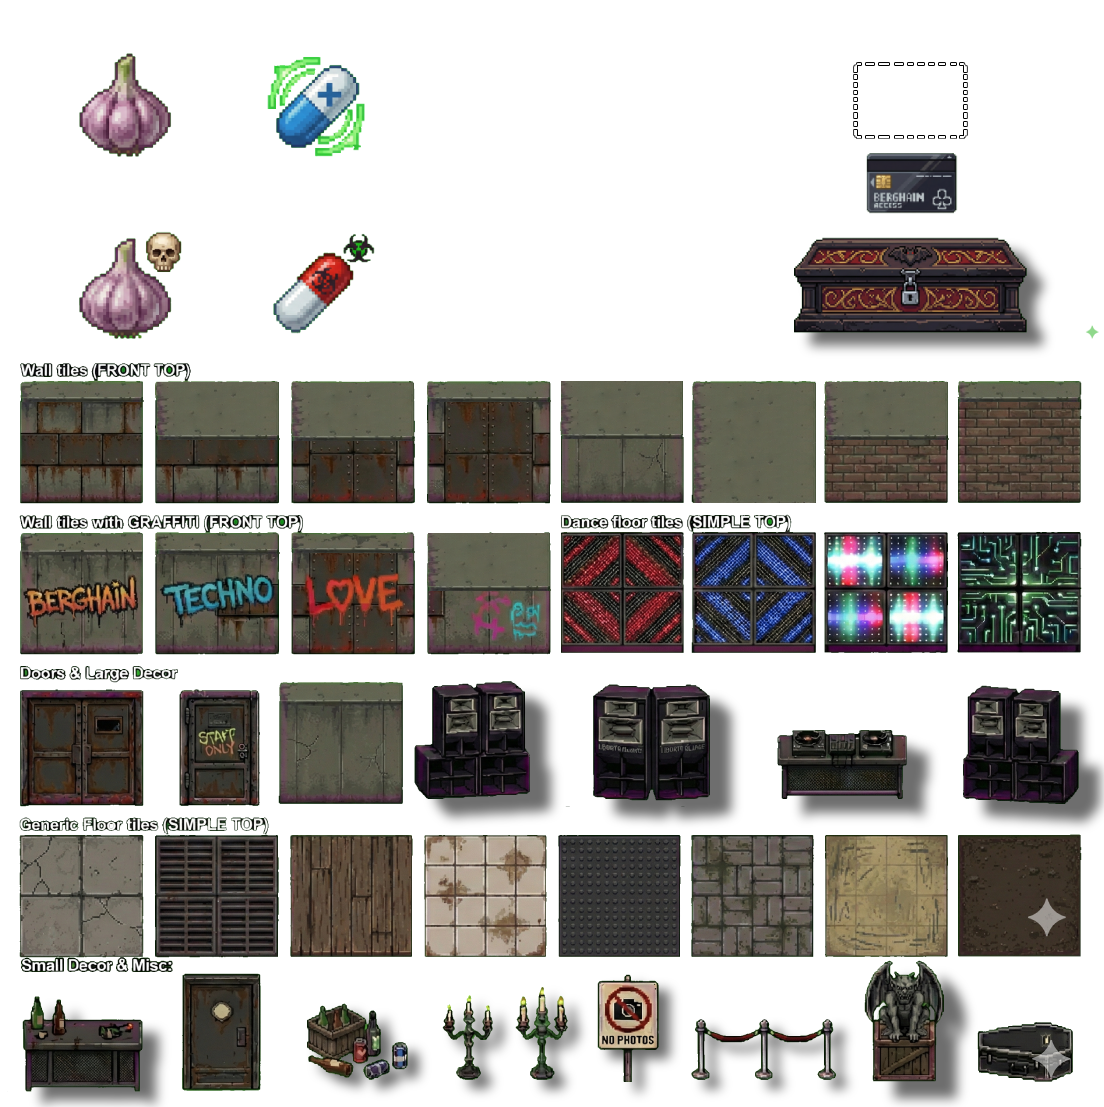
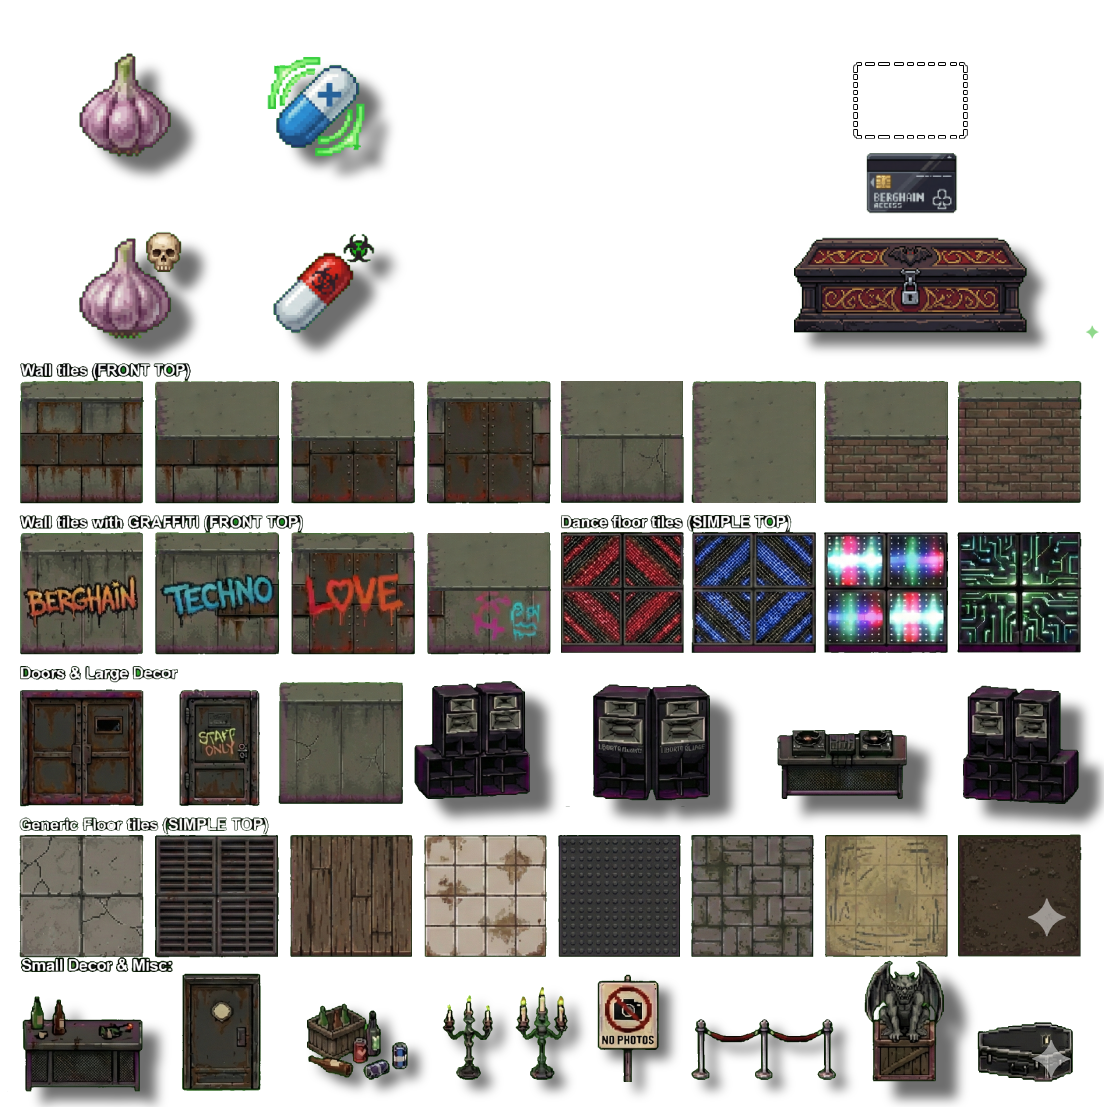
ADD: README.md

diff --git a/core/src/de/tum/cit/fop/maze/UI/SettingsScreen.java b/core/src/de/tum/cit/fop/maze/UI/SettingsScreen.java
@@ -202,7 +202,7 @@ public class SettingsScreen {
         });
         table.add(resolutionWidth).width(400).row();
 
-        TextButton fsButton = new TextButton("Mode: Windowed", skin);
+        TextButton fsButton = new TextButton("Mode: Windowed", skin, "vampire-style");
 
         fsButton.addListener(new ChangeListener() {
             @Override

diff --git a/README.md b/README.md
@@ -1,0 +1,93 @@
+# Maze Runner
+
+![Project Logo or Screenshot](assets/mainMenu_background.png)
+
+"Vampire in Berghain" is a top-down maze-runner game where you play as a recently awakened vampire. Trapped in Berghain, a club in Berlin, you must navigate through dangerous mazes, spill the blood of mortals, and find the portal that leads back to your home in Transylvania.
+
+## Quick Start (Getting Started)
+
+Follow these instructions to run the project locally on your machine.
+
+### Windows
+Open a terminal (Command Prompt or PowerShell) in the project root and run:
+```bash
+gradlew.bat desktop:run
+```
+
+### Mac
+Open a terminal in the project root and run:
+```bash
+./gradlew desktop:run
+```
+*Note: The project is configured to use the `-XstartOnFirstThread` JVM argument, which is required for LWJGL3 applications on macOS.*
+
+### Linux
+Open a terminal in the project root and run:
+```bash
+./gradlew desktop:run
+```
+
+## Prerequisites
+
+To build and run this project, you need:
+- **Java Development Kit (JDK) 17 or higher**: Ensure your `JAVA_HOME` environment variable is set correctly.
+- **Gradle**: The project uses the Gradle wrapper, so no manual installation is required.
+
+## Project Structure
+
+This project is built using **Java 17** and the **libGDX** framework, organized into a multi-module Gradle setup:
+
+- **`core`**: Contains the main game logic, entity management, and shared code. It utilizes **gdx-vfx** for post-processing and **FreeType** for font rendering.
+- **`desktop`**: The desktop launcher module using **LWJGL3**. It handles window creation and uses **gdx-nativefilechooser** for system file dialogs.
+- **`assets`**: Stores all game resources, including textures, sound effects, music, and map files.
+
+## How to Build/Export
+
+To create a standalone, runnable JAR file for the desktop version, execute the following command:
+
+```bash
+./gradlew desktop:dist
+```
+
+The generated JAR file will be located in the `desktop/build/libs/` directory. You can run it using:
+```bash
+java -jar desktop/build/libs/desktop-1.0.jar
+```
+
+## Controls
+
+The following table lists the default key bindings for Maze Runner:
+
+| Action | Key |
+| :--- | :--- |
+| **Move Up** | `W` |
+| **Move Left** | `A` |
+| **Move Down** | `S` |
+| **Move Right** | `D` |
+| **Attack** | `SPACE` |
+| **Dash** | `Left Shift` |
+| **Interact** | `E` |
+| **Special Ability** | `Q` |
+| **Progression Tree** | `I` |
+| **Developer Console** | `/` |
+| **Zoom In** | `+` / `=` |
+| **Zoom Out** | `-` |
+| **Pause / Menu** | `ESC` |
+
+## Game Mechanics
+
+"Vampire in Berghain" features different mechanics, such as: 
+
+1.  
+
+## Contributing
+
+Contributions are welcome! If you'd like to improve the game, please follow these steps:
+
+1. **Fork** the repository.
+2. Create a new **branch** (`git checkout -b feature/amazing-feature`).
+3. **Commit** your changes (`git commit -m 'Add some amazing feature'`).
+4. **Push** to the branch (`git push origin feature/amazing-feature`).
+5. Open a **Pull Request**.
+
+Please ensure your code follows the existing style and all tests pass before submitting.
